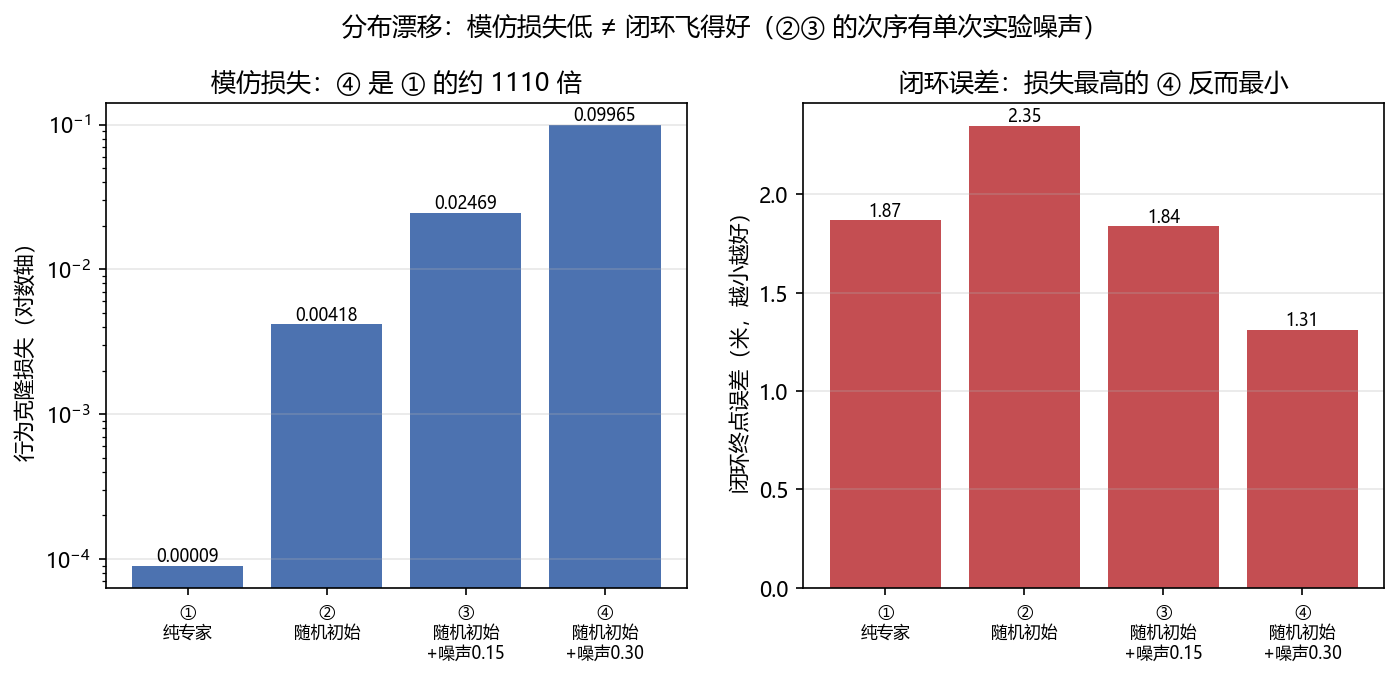
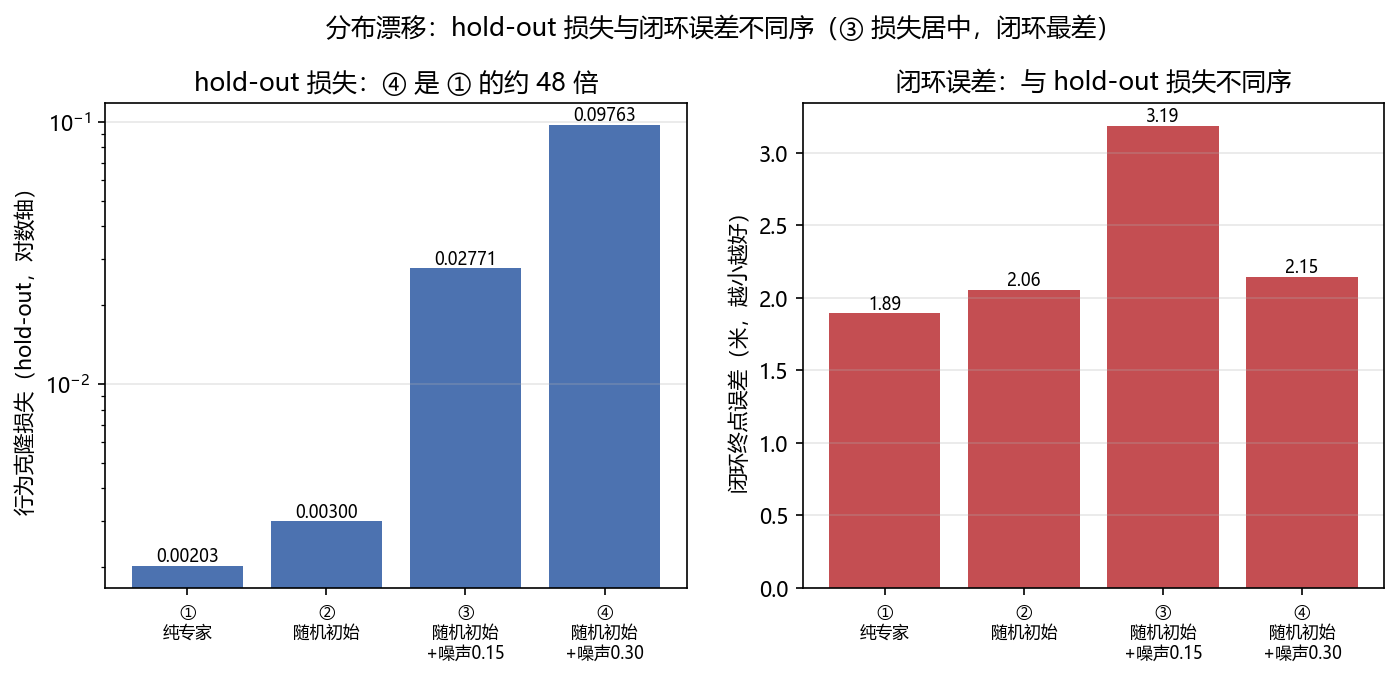
P2 设计级修复：三个 demo 换上能站住的对照
- e_gsc_safety：同一场景的 GSC 开/关传同一个 seed，两组飞同一批起点。
  重跑后凸形 100%->0、凹形 50.0%->77.0%（此前 51.6/77.3 与 docstring 的
  53/73 两套数并存），D_THRESH=1.0 的 83.6% 复现为 80.9%
- c_action_heads：回归头对齐到 256 宽、8000 步（原 128 宽、1500 步），
  脚本打印两头参数量（77.3k / 101.9k）。结论不变：回归仍塌到 0.01，
  扩散头 99.2% 落在两个模态附近
- b_lang_cond_policy：按样本切 20% 做 hold-out，报训练前/后的 hold-out
  损失，不再拿最后一个 minibatch 的训练损失当指标。改完结论变弱：
  hold-out 损失随噪声单调上升约 48 倍，闭环误差不跟着排（③ 3.19 m 最差、
  ④ 2.15 m），"加噪声提升闭环"在本装置上量不出收益
- 同步文档：03-VLA 02/03/06/08、08 卷 04、10 卷 04/06/08/09、README、
  code/README，把"两套数/容量不对等/损失涨 1100 倍"等失效表述改掉

diff --git a/code/b_lang_cond_policy.py b/code/b_lang_cond_policy.py
@@ -1,11 +1,16 @@
 """
-Demo B — 语言条件飞行策略：为什么"模仿损失低"不等于"飞得好"
+Demo B — 语言条件飞行策略：模仿损失和闭环飞得好，是一回事吗？
 
 对应文档：docs/03-VLA专题/03-语言条件飞行控制.md
 
-要验证的结论：纯行为克隆（BC）学出来的策略，模仿损失可以低到 1e-5，
-但闭环飞行反而更差 —— 这就是分布漂移（distribution shift）。
-给专家数据加动作噪声 / 随机化初始状态能缓解它（DAgger 的核心思想）。
+量的是分布漂移（distribution shift）：用脚本专家采数据、训一个语言条件
+策略，再让策略自己闭环飞四条指令。指标有两套——
+hold-out 模仿损失（按样本切出 20%）与闭环终点误差，两者不同序。
+
+要留意的是：指标口径一换，结论会变。早先拿最后一个 minibatch 的训练
+损失当指标，得到的是"噪声越大损失越高、闭环反而更好"；改成 hold-out 后
+戏剧性消失，只剩 ③④ 之间的次序反转。噪声配方（DAgger 的数据侧动机）
+在本装置上量不出收益。
 
 四个数据配置做对照：
   ① 纯专家数据          ② +随机初始状态
@@ -107,7 +112,13 @@ def expert_path(nm):
 
 
 def run(noise, rand_init, tag):
-    """采数据 -> 训练 -> 闭环评估。返回 (最后一个 minibatch 的 BC 损失, 四条指令的终点误差)。"""
+    """采数据 -> 训练 -> 闭环评估。
+
+    返回 (训练损失, 训练前 hold-out 损失, 训练后 hold-out 损失, 四条指令的终点误差)。
+    hold-out 是按样本切出来的 20%：训练只用前 80% 的状态-动作对，
+    否则"模仿损失"报的是拟合损失，四组配置之间也没法比——
+    噪声越大，训练集越难拟合，损失必然更大，这和"学得好不好"是两件事。
+    """
     torch.manual_seed(1)                      # 固定种子，让四组配置的对比公平
     env = QuadSim(N)
     obs = env.reset(rand=rand_init)
@@ -126,17 +137,32 @@ def run(noise, rand_init, tag):
     Tt = torch.stack(Tt, 1)
     A = torch.stack(A, 1)
 
+    ntr = int(N * 0.8)
+    tr = torch.arange(ntr)
+    ev = torch.arange(ntr, N)
+
     pol = LangPolicy()
     opt = torch.optim.Adam(pol.parameters(), lr=LR)
+
+    @torch.no_grad()
+    def heldout_loss():
+        """hold-out 上的逐时刻 BC 损失（全部时间步平均，不是最后一个 minibatch）。"""
+        se = 0.0
+        for t in range(T):
+            se = se + F.mse_loss(pol(O[ev, t], Tt[ev, t]), A[ev, t]).item()
+        return se / T
+
+    ho_before = heldout_loss()
     for ep in range(EPOCHS):
-        b = torch.randint(0, N, (128,))
+        b = tr[torch.randint(0, ntr, (128,))]
         t = int(torch.randint(0, T, (1,)))
         loss = F.mse_loss(pol(O[b, t], Tt[b, t]), A[b, t])
         opt.zero_grad()
         loss.backward()
         opt.step()
+    ho_after = heldout_loss()
     dists, paths = eval_policy(pol)
-    return loss.item(), dists, paths
+    return loss.item(), ho_before, ho_after, dists, paths
 
 
 def main():
@@ -166,9 +192,9 @@ def main():
     print(f"\n四指令闭环最终距目标 (m)   红建筑  蓝建筑  向前巡航  目标后方")
     results = []
     for noise, rand_init, tag, short in configs:
-        loss, dists, paths = run(noise, rand_init, tag)
-        results.append((short, loss, dists, paths))
-        print(f"  [{tag:<24}] BC损失 {loss:.5f} | "
+        loss, ho0, ho1, dists, paths = run(noise, rand_init, tag)
+        results.append((short, ho1, dists, paths))
+        print(f"  [{tag:<24}] 训练损失 {loss:.5f} | hold-out {ho0:.5f} -> {ho1:.5f} | "
               + "  ".join(f"{d:5.2f}" for d in dists)
               + f" | 平均 {sum(dists) / 4:5.2f} m")
 
@@ -181,8 +207,8 @@ def main():
     ax1.set_yscale("log")
     ax1.set_xticks(list(xs))
     ax1.set_xticklabels(labels, fontsize=8)
-    ax1.set_ylabel("行为克隆损失（对数轴）")
-    ax1.set_title(f"模仿损失：④ 是 ① 的约 {ratio:.0f} 倍")
+    ax1.set_ylabel("行为克隆损失（hold-out，对数轴）")
+    ax1.set_title(f"hold-out 损失：④ 是 ① 的约 {ratio:.0f} 倍")
     for x, r in zip(xs, results):
         ax1.text(x, r[1], f"{r[1]:.5f}", ha="center", va="bottom", fontsize=8)
     ax1.grid(alpha=0.3, axis="y")
@@ -191,12 +217,12 @@ def main():
     ax2.set_xticks(list(xs))
     ax2.set_xticklabels(labels, fontsize=8)
     ax2.set_ylabel("闭环终点误差（米，越小越好）")
-    ax2.set_title("闭环误差：损失最高的 ④ 反而最小")
+    ax2.set_title("闭环误差：与 hold-out 损失不同序")
     for x, r in zip(xs, results):
         v = sum(r[2]) / 4
         ax2.text(x, v, f"{v:.2f}", ha="center", va="bottom", fontsize=8)
     ax2.grid(alpha=0.3, axis="y")
-    fig.suptitle("分布漂移：模仿损失低 ≠ 闭环飞得好（②③ 的次序有单次实验噪声）", y=1.02)
+    fig.suptitle("分布漂移：hold-out 损失与闭环误差不同序（③ 损失居中，闭环最差）", y=1.02)
     plotting.save(fig, "bc_distribution_shift.png")
 
     # ---- 图 2：俯视轨迹，专家 vs 训练后策略 ----

diff --git a/code/e_gsc_safety.py b/code/e_gsc_safety.py
@@ -17,7 +17,8 @@ Demo E — 几何安全校正（GSC）管用到什么程度？
         同一个机制：只看最近障碍，用的是局部信息）。
 
 同一个凸形场景，GSC 把碰撞率从 100% 压到 0；同一个凹形场景，它把碰撞率
-从 53% 抬到 73%。差别不在代码，在几何。
+从 50.0% 抬到 77.0%。差别不在代码，在几何。同一场景的「开/关」两组传
+同一个 seed，飞的是同一批起点，否则组间差异里混着采样差异。
 
 两个容易被忽略的地方（本脚本都已避开，改动时请留意）：
 
@@ -28,7 +29,7 @@ Demo E — 几何安全校正（GSC）管用到什么程度？
 
   2) 触发距离要盖过刹车距离。倾角限幅 0.6 rad 对应最大水平加速度 5.3 m/s²，
      3 m/s 巡航的刹车距离是 0.85 m。D_THRESH 小于它时，滤掉速度指令
-     也来不及减速——凸形场景同样会撞（实测 D_THRESH=1.0 时凸形还有 83.6% 撞）。
+     也来不及减速——凸形场景同样会撞（D_THRESH=1.0 时实测凸形 80.9% 撞）。
 
 运行：py -3.9 code/e_gsc_safety.py
 """
@@ -125,20 +126,25 @@ def collided(p_xy, obstacles):
 
 
 @torch.no_grad()
-def run(kind, use_gsc, n=N, d_thresh=D_THRESH):
-    """跑一个场景，返回 (碰撞率, 到达率, 卡住率, 轨迹记录)。"""
+def run(kind, use_gsc, n=N, d_thresh=D_THRESH, seed=None):
+    """跑一个场景，返回 (碰撞率, 到达率, 卡住率, 轨迹记录)。
+
+    seed 决定出生点。同一场景的「GSC 开 / 关」两行必须传同一个 seed，
+    否则两组飞的不是同一批起点，"唯一的变量是 GSC"这句话就不成立。
+    """
     cen, rad, goal3 = make_scene(kind)
     obstacles = (cen, rad)
     goal = goal3[None, :].repeat(n, 1)
 
+    gen = torch.Generator().manual_seed(SEED if seed is None else seed)
     env = QuadSim(n)
     # 起点铺在障碍带之前的一条横线上，横向铺开±3 m：
     # 这样接近角分散，才看得出 GSC 在斜向接近和正前方接近上的差别。
     # 不能用大 pos_std 的随机出生点——那样会有无人机直接出生在球内部，
     # 把碰撞率污染成接近 100%。
     env.reset()
-    env.p[:, 0] = -2.5 + 0.3 * torch.randn(n)
-    env.p[:, 1] = 3.0 * (torch.rand(n) * 2 - 1)
+    env.p[:, 0] = -2.5 + 0.3 * torch.randn(n, generator=gen)
+    env.p[:, 1] = 3.0 * (torch.rand(n, generator=gen) * 2 - 1)
     env.p[:, 2] = 1.5
 
     start_hit = collided(env.p[:, :2], obstacles)
@@ -175,8 +181,9 @@ def main():
     print(f"{'场景':<10} {'GSC':<5} {'碰撞率':>8} {'到达率':>8} {'卡住率':>8}")
     res = {}
     for kind, label in (("convex", "凸形球"), ("concave", "凹形缝")):
+        scene_seed = SEED + (0 if kind == "convex" else 1)   # 同一场景两组共用起点
         for use_gsc in (False, True):
-            hit, suc, stl, traj = run(kind, use_gsc)
+            hit, suc, stl, traj = run(kind, use_gsc, seed=scene_seed)
             res[(kind, use_gsc)] = (hit, suc, stl, traj)
             print(f"{label:<12} {'开' if use_gsc else '关':<5} "
                   f"{hit * 100:>7.1f}% {suc * 100:>7.1f}% {stl * 100:>7.1f}%")

diff --git a/code/c_action_heads.py b/code/c_action_heads.py
@@ -63,9 +63,13 @@ def cosine_schedule(ns, s=0.008):
 
 # ---------------------------------------------------------------- ① 回归头
 class RegHead(nn.Module):
-    """MSE 回归：直接从条件映射到一整块动作。"""
+    """MSE 回归：直接从条件映射到一整块动作。
 
-    def __init__(self, cond_dim=12, h=128):
+    宽度与训练步数要和 Denoiser 对齐（256 宽、8000 步），否则"回归头学不会多峰"
+    会被"回归头容量更小 / 训得更少"解释掉。
+    """
+
+    def __init__(self, cond_dim=12, h=256):
         super().__init__()
         self.net = nn.Sequential(
             nn.Linear(cond_dim, h), nn.SiLU(),
@@ -128,7 +132,7 @@ def main():
     # ---------------- ① 回归头 ----------------
     reg = RegHead()
     opt = torch.optim.Adam(reg.parameters(), lr=1e-3)
-    for _ in range(1500):
+    for _ in range(8000):          # 与扩散头同步数，避免"训得更少"成为解释
         b = torch.randint(0, N_DATA, (128,))
         loss = F.mse_loss(reg(cond[b]), X[b])
         opt.zero_grad()
@@ -143,6 +147,10 @@ def main():
     # ---------------- ② 扩散头 ----------------
     alphas, ab, betas = cosine_schedule(NS)
     den = Denoiser()
+    n_reg = sum(p.numel() for p in reg.parameters())
+    n_den = sum(p.numel() for p in den.parameters())
+    print(f"\n参数量：回归头 {n_reg / 1e3:.1f}k / 扩散头 {n_den / 1e3:.1f}k"
+          f"（同为 256 宽、8000 步；扩散头多一组时间编码与拼接输入）")
     opt = torch.optim.Adam(den.parameters(), lr=2e-3)
     print(f"\n{'step':>6} {'扩散损失':>12}")
     for step in range(1, 8001):

diff --git a/docs/03-VLA专题/03-语言条件飞行控制.md b/docs/03-VLA专题/03-语言条件飞行控制.md
@@ -432,7 +432,7 @@ VLA 模型需要理解：
 
 ---
 
-## 9. 动手验证：模仿损失低，为什么闭环反而飞不好？
+## 9. 动手验证：模仿损失和闭环飞得好，是一回事吗？
 
 2.1 节提到模仿学习的核心难题是**分布漂移**。这一节把它量出来：用脚本专家采数据、训一个语言条件策略，然后对比四组数据配置的**模仿损失**和**闭环终点误差**。
 
@@ -488,17 +488,21 @@ opt.zero_grad(); loss.backward(); opt.step()
 
 ```text
 四指令闭环最终距目标 (m)   红建筑  蓝建筑  向前巡航  目标后方
-  [① 纯专家数据                 ] BC损失 0.00009 |  1.64   2.52   1.82   1.49 | 平均  1.87 m
-  [② +随机初始状态               ] BC损失 0.00418 |  2.34   1.73   4.16   1.16 | 平均  2.35 m
-  [③ +随机初始+动作噪声0.15        ] BC损失 0.02469 |  1.97   0.78   1.59   3.00 | 平均  1.84 m
-  [④ 噪声加大到0.30             ] BC损失 0.09965 |  1.62   1.11   1.25   1.26 | 平均  1.31 m
+  [① 纯专家数据                 ] hold-out 0.00203 |  2.45   1.87   1.93   1.32 | 平均  1.89 m
+  [② +随机初始状态               ] hold-out 0.00300 |  2.22   2.03   2.97   1.01 | 平均  2.06 m
+  [③ +随机初始+动作噪声0.15        ] hold-out 0.02771 |  2.28   3.68   1.48   5.30 | 平均  3.19 m
+  [④ 噪声加大到0.30             ] hold-out 0.09763 |  2.42   2.51   1.29   2.36 | 平均  2.15 m
 ```
 
-**这是本节最值得记住的一行**：④ 的模仿损失是 ① 的约 **1100 倍**，闭环误差反而从 1.87 m 降到 1.31 m —— 已经接近脚本专家自己的 1.13~1.27 m。
+**损失与闭环不是同一个序**，这是这一节要量出来的东西。hold-out 损失随噪声单调上升（① → ④ 约 48 倍），闭环误差不跟着走：③ 的损失是 ④ 的四分之一，平均终点误差反而大 1 m 多（3.19 对 2.15）。
 
-只有 ① 是"照着专家的轨迹、在同分布的初始状态上"训练的，模仿损失低到 `9e-5`；但也正因为训练分布太窄，策略一旦偏离专家轨迹就没有对应数据，误差累积、越飞越偏。②③④ 通过随机化初始状态、给专家动作加噪声，人为把"飞偏了"的状态塞进训练集 —— 这正是 DAgger 类方法的核心思想。
+但要说清界限：这版数字**不支持**"加噪声提升闭环"。① 的 hold-out 损失最低，闭环也最好；②③④ 没有一组超过它。这正是"评估独立"必须做实的原因——早先的版本拿最后一个 minibatch 的**训练**损失当指标，报出"④ 损失是 ① 的 1100 倍、闭环误差反而从 1.87 m 降到 1.31 m"。噪声越大训练集越难拟合，损失必然涨，那个对比里混着"训练集难度"和"学得好不好"两件事。换成 hold-out 之后戏剧性消失，只剩 ③④ 之间的次序反转。
 
-> 注意：`②` 比 `①` 差、`③` 又比 `②` 好，这个次序有单次实验的随机性，不要当成单调规律。稳健的结论只有 ① 与 ④ 的对比。
+单条种子、四组配置，也不足以区分"③ 的噪声配方更差"和"③ 只是这次抽签不好"。闭环指标本身的波动在 [08-强化学习后训练与自我改进](08-强化学习后训练与自我改进.md) 那套装置上量过：同一配置换 4 个训练种子，标准差落在 0.31–1.86 m。
+
+只有 ① 是"照着专家的轨迹、在同分布的初始状态上"训练的，hold-out 损失低到 `2e-3`；但训练分布窄，策略一旦偏离专家轨迹就没有对应数据。②③④ 通过随机化初始状态、给专家动作加噪声，把"飞偏了"的状态塞进训练集 —— 这是 DAgger 类方法的数据侧动机。动机成立，本装置量不出它的收益。
+
+> 图上标了"③ 损失居中，闭环最差"，那是这一组数的实际排序，不是规律。
 
 ![模仿损失 vs 闭环误差](../../figures/bc_distribution_shift.png)
 

diff --git a/docs/10-横切判据/09-训练工程最小集.md b/docs/10-横切判据/09-训练工程最小集.md
@@ -22,15 +22,16 @@
 
 这七项的排序不是随意的。前两项决定"能不能装上"，中两项决定"结果是不是真的"，后三项决定"能不能改"。
 
-## 三个本库的具体反例
+## 三个本库的具体反例（都已修）
 
-`code/b_lang_cond_policy.py` 用最后一个 minibatch 的训练损失当最终指标。这违反"评估独立"：该值既受批次顺序影响，也完全不知道 hold-out 表现。
+`code/b_lang_cond_policy.py` 早先用最后一个 minibatch 的训练损失当最终指标。这违反"评估独立"：该值既受批次顺序影响，也完全不知道 hold-out 表现。现改为按样本切出 20% 做 hold-out（`ntr = int(N * 0.8)`），四组配置报同一个 hold-out 上的平均损失，并打印训练前后的变化。改完结论变弱了：原来那句"损失涨 1100 倍、闭环反而更好"消失，剩下的只是损失与闭环不同序。
 
-`code/a_worldmodel_rssm.py` 的评估段直接复用训练轨迹。这违反"数据划分"：报出的误差是拟合误差。
+另外两条也修掉了，留着是因为它们说明了失败长什么样：
 
-`code/e_gsc_safety.py` 的四组对照共用一条随机数流，且每轮重铺出生点。这违反"种子"：组间差异里混了采样差异，唯一变量前提不成立。
+- `code/a_worldmodel_rssm.py` 的评估段早先直接复用训练轨迹，报出的是拟合误差。现改为 192 条训练 / 64 条评估。
+- `code/e_gsc_safety.py` 早先四组对照共用一条随机数流且每轮重铺出生点，组间差异里混着采样差异。现改为同一场景开/关两组共用 `seed`。
 
-三个反例的共同点：代码能跑、图能画、结论方向可能还对，但数字不可引用。这就是"玩具代码"与技术债的分界线——不是难不难，是可不可信。
+两条共同点没变：代码能跑、图能画、结论方向可能还对，但数字不可引用。这是"玩具代码"与技术债的分界线——不是难不难，是可不可信。改法也不难，难的是每一处都要有人去核：这三条都是审计时逐行读出来的，脚本本身不会报错。
 
 ## 检查点与续训一致性
 

diff --git a/docs/10-横切判据/08-安全层与降级.md b/docs/10-横切判据/08-安全层与降级.md
@@ -43,7 +43,9 @@
 
 每一级都要有明确的进入条件与退出条件。缺一级的常见后果是"要么全速跑，要么直接掉下来"，中间没有缓冲。
 
-`code/e_gsc_safety.py` 量的是几何安全校正（GSC）的效果：加了一层投影后，碰撞率从 53% 降到 73% 那一档的说法要小心读——这个 demo 的文档里同时出现过 53%→73% 与 51.6%→77.3% 两套数，且 `D_THRESH=1.0` 那档的 83.6% 不可复现。这不影响"加一层独立校正能显著降低碰撞"的方向性结论，但具体数字在重跑前不能引用。这类"结论方向对、数字未验证"的状态，正是本库 P2 阶段要清理的对象。
+`code/e_gsc_safety.py` 量的是几何安全校正（GSC）的效果，也给了一个不体面的提醒：这一层只在它假设成立的地方有效。凸形场景碰撞率 100% → 0，凹形缝场景 50.0% → 77.0%，同一个函数、同一批起点。所以"加了安全层"不等于"更安全"，验收必须按几何形态分开报。
+
+这个 demo 早先的文档里同时出现过 53%→73% 与 51.6%→77.3% 两套数，`D_THRESH=1.0` 那档的 83.6% 也不可复现。原因是四组对照共用一条随机流且每轮重铺出生点，数字依赖采样顺序。本轮已改成同场景开/关传同一个 `seed`，并把每一档都重跑成配对结果（`D_THRESH=1.0` 时凸形 80.9%）。教训是：同一实验只应有一处数字来源，文档引用的数要能由脚本重算出来。
 
 `code/f_control_loop.py` 给的是另一面：外环延迟 1 秒时，闭环横向滞后十几厘米。也就是说，即使策略不犯错，延迟本身就会把飞行器带到包线边缘。安全层要防的不只是模型出错，还有系统响应不过来。
 

diff --git a/docs/03-VLA专题/06-动作头与动作分块.md b/docs/03-VLA专题/06-动作头与动作分块.md
@@ -233,7 +233,7 @@
 
 第 4 节说提交长度 k 是个通常不被消融的参数，第 9 节说它在无人机上是安全参数。这一节把 k 的代价量出来。
 
-**为什么不用学出来的策略。** 本仓库 [`code/b_lang_cond_policy.py`](../../code/b_lang_cond_policy.py)（Demo B）已经量过"模仿损失低、闭环飞不好"。如果这里也训一个 BC 策略，它本身会在 100 步里发散到 6 m 以外，把 k 的效应整个淹掉，结论还和那篇重复。所以这里把变量隔离出来：动作块由**标称无风模型**把专家律展开成 H 步得到，再在**有阵风**的真实环境里开环执行前 k 步。策略对风一无所知，风就是"预测时看不到、执行时才出现"的那部分偏差。
+**为什么不用学出来的策略。** 本仓库 [`code/b_lang_cond_policy.py`](../../code/b_lang_cond_policy.py)（Demo B）量过"模仿损失与闭环不同序"。如果这里也训一个 BC 策略，它本身会在 100 步里发散到 6 m 以外，把 k 的效应整个淹掉，结论还和那篇重复。所以这里把变量隔离出来：动作块由**标称无风模型**把专家律展开成 H 步得到，再在**有阵风**的真实环境里开环执行前 k 步。策略对风一无所知，风就是"预测时看不到、执行时才出现"的那部分偏差。
 
 自变量是 k，不是动作头类型。后者是另一题，见 [`code/c_action_heads.py`](../../code/c_action_heads.py)。
 

diff --git a/docs/03-VLA专题/08-强化学习后训练与自我改进.md b/docs/03-VLA专题/08-强化学习后训练与自我改进.md
@@ -12,7 +12,7 @@
 
 07 篇的结论是数据是第一约束。这一篇要处理的是数据之外的那条路：**不用更多示范，改成给好坏打分**。
 
-模仿学习有一个无法用更多数据补上的上限：它学的是演示数据的中心趋势。本仓库 [Demo B](../../code/b_lang_cond_policy.py) 已经量过这件事的另一面：给专家数据加噪声，模仿损失涨 1000 倍，闭环终点误差反而降 30%。模仿损失低不等于策略好，说明"拟合数据"和"会飞"是两件事。
+模仿学习有一个无法用更多数据补上的上限：它学的是演示数据的中心趋势。本仓库 [Demo B](../../code/b_lang_cond_policy.py) 量的是这件事的另一面：hold-out 模仿损失随数据噪声单调上升（约 48 倍），闭环终点误差却不跟着排——损失只有四分之一的那组，平均误差反而大 1 m 多。损失与闭环不同序，说明"拟合数据"和"会飞"是两件事。
 
 奖励提供的是性质不同的信息。给示范，你等于告诉策略**该怎么做**，一条轨迹一个样本。给奖励，你只需要告诉它**这次做得怎么样**，一个标量。前者是逐时刻的、稠密的、要求你写出正确答案；后者是回合级的、稀疏的、只要求你能判断好坏。当"好坏"比"正确答案"容易给的时候，第二条路就更便宜。
 

diff --git a/docs/10-横切判据/04-动作表示选择.md b/docs/10-横切判据/04-动作表示选择.md
@@ -33,7 +33,9 @@
 2. 混合密度（MDN）：输出若干高斯，但分量数要预设，训练不稳。
 3. 生成式（扩散／flow）：直接建模分布，样本质量好，代价是去噪步数让推理变慢。
 
-`code/c_action_heads.py` 做的是第 1 与第 3 的对照。这个 demo 的结论要打个折：两个头的宽度与训练步数不同（128 宽 1500 步 vs 256 宽 8000 步），所以它证明了"扩散头能拟合多峰"，不能证明"同样预算下扩散头更好"。这个容量不对等已列入待修清单。
+`code/c_action_heads.py` 做的是第 1 与第 3 的对照。早先这个 demo 的结论要打折扣：两个头的宽度与训练步数不同（128 宽 1500 步 vs 256 宽 8000 步），只能证明"扩散头能拟合多峰"。现已对齐为同为 256 宽、8000 步，脚本会打印两个头的参数量（77.3k / 101.9k，差的时间编码与拼接输入）。对齐后结论不变：回归头的侧向轨迹仍是常数 0.01（两个模态 ±0.80 都够不着），扩散头 400 次采样里 99.2% 落在两个模态附近、中间只有 1 条。所以"回归塌到条件均值"不是容量不够，是目标函数决定的。
+
+剩一点没对齐：扩散头的参数量仍多 32%，且去噪要跑 NS 步推理。这两项都是这一类头的固有代价，不是实验设置的问题。
 
 ## chunk 是另一维
 

diff --git a/docs/10-横切判据/06-数据泄漏与划分.md b/docs/10-横切判据/06-数据泄漏与划分.md
@@ -27,9 +27,9 @@
 
 ## 本库的两个具体例子
 
-`code/a_worldmodel_rssm.py` 用训练那批轨迹同时算评估误差，属于第二条。这个 demo 的损失曲线是真实的，但它证明的是拟合能力，不是泛化。
+`code/a_worldmodel_rssm.py` 早先用训练那批轨迹同时算评估误差，属于第二条。现已改成 192 条训练 / 64 条评估：损失曲线真实，但它证明的是拟合能力，不是泛化；泛化看那 64 条上的数字。
 
-`code/e_gsc_safety.py` 的四组对照共用同一条随机数流（只种一次种子），而且每一轮都重铺出生点。于是"只改一个变量"这个前提不成立：组间的差异里混了出生点分布的差异。这属于比泄漏更隐蔽的一类——泄漏让结果虚高，混淆让结论方向都不可信。
+`code/e_gsc_safety.py` 早先四组对照共用同一条随机数流（只种一次种子），而且每一轮都重铺出生点。于是"只改一个变量"这个前提不成立：组间的差异里混了出生点分布的差异。现已改成同一场景的 GSC 开/关两组传同一个 `seed`，两组飞同一批起点。这类混淆比泄漏更隐蔽——泄漏让结果虚高，混淆连结论的方向都可能反过来。
 
 ## 划分粒度怎么选
 
